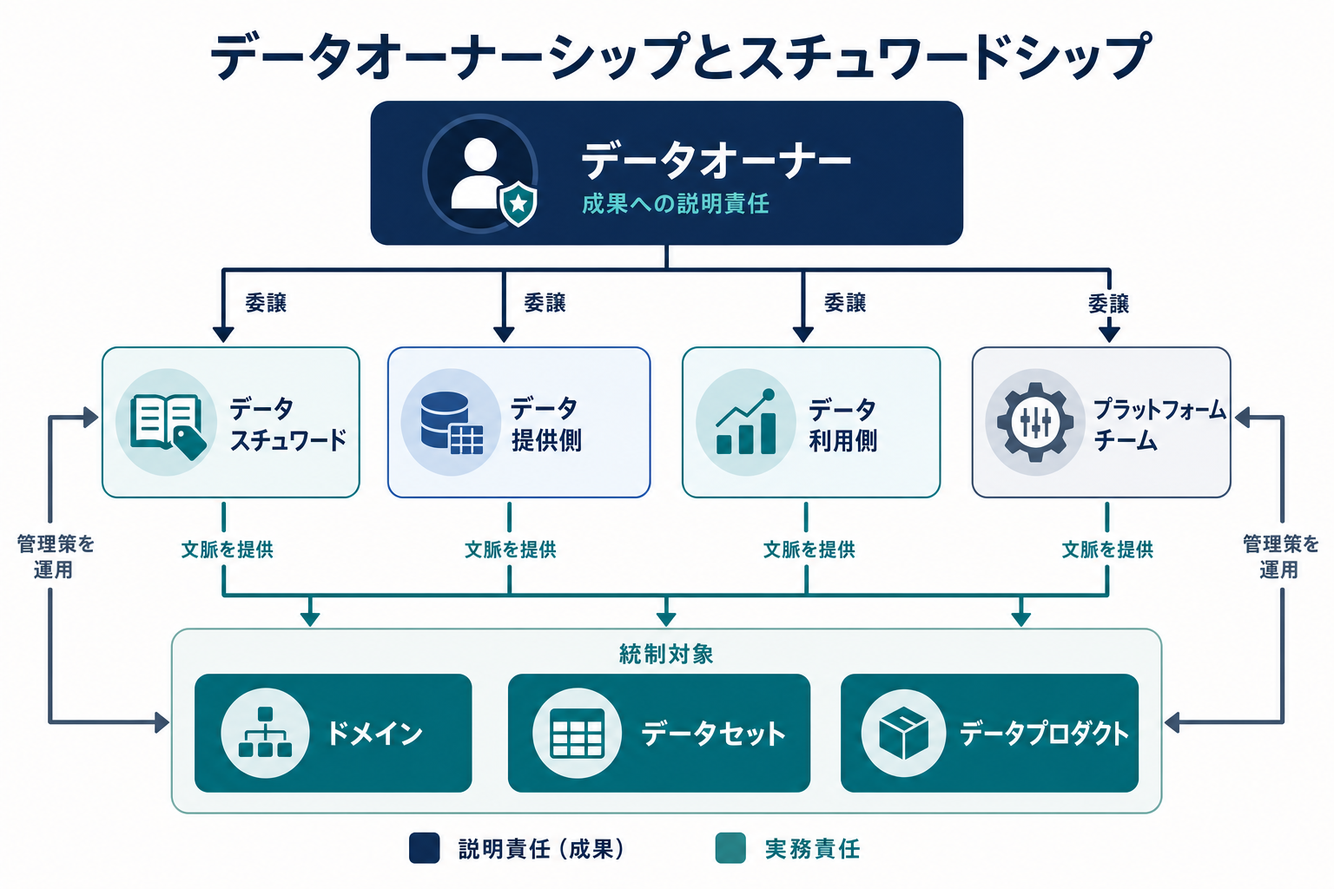
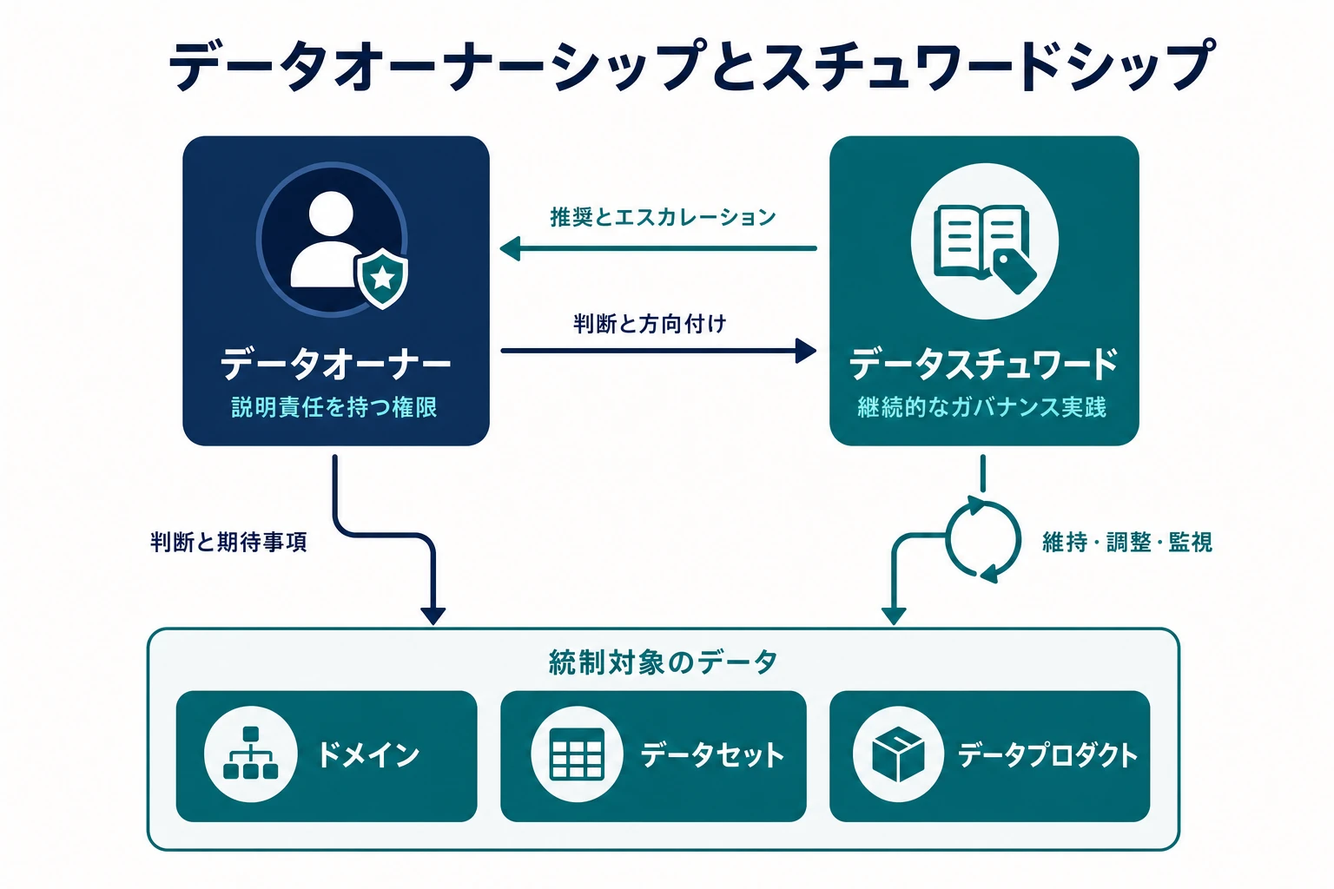
Refine data governance ownership and controls

diff --git a/prompts/docs/data/governance/imagen/03-policies-standards-and-controls.md b/prompts/docs/data/governance/imagen/03-policies-standards-and-controls.md
@@ -1,7 +1,7 @@
 ---
 type: image
 path: /docs/data/governance/policies-standards-and-controls
-description: Connected roles of policies, standards, and controls, with principles, control objectives, and evidence in supporting positions.
+description: Policy, Standard, and Control grouped as one governance mechanism informed by Principle and producing Evidence for assurance and feedback.
 ---
 
 # Image Generation Prompt — Policies, Standards, and Controls
@@ -10,25 +10,25 @@ Create a polished 1536 × 1024 pixels technical infographic titled **Policies, S
 
 ## Purpose
 
-Help readers distinguish the three subjects named by the page title and understand how they connect. Show Policy, Standard, and Control as three equally important but different responsibilities. Place Principle, Control Objective, control modes, and Evidence in supporting positions that clarify the three main subjects rather than competing with them.
+Help readers distinguish the three subjects named by the page title and understand how they connect. Show Policy, Standard, and Control as equally important but different elements inside one clearly bounded governance mechanism. Grouping is more important than a rigid pipeline. Place Principle outside and above the group, and Evidence downstream as support for assurance and feedback.
 
 ## Core Message
 
-Policy defines a mandatory outcome and scope. Standard translates it into a testable common requirement. Control is the operating mechanism that prevents, detects, or corrects deviation. Principle provides direction above this chain; Control Objective and Evidence explain how a control is designed and demonstrated.
+Policy defines a mandatory outcome and scope. Standard translates expectations into testable common requirements. Control is the operating mechanism that prevents, detects, or corrects deviation. Principle provides stable direction to the grouped mechanism as a whole. Evidence demonstrates design and operation and supports feedback. These are traceable relationships, not a universal one-to-one hierarchy.
 
 ## Composition
 
-Use three large, equal-width main columns on one horizontal axis: **Policy**, **Standard**, and **Control**. Connect them with two prominent right-pointing arrows. These three columns must dominate the composition and receive equal visual weight.
+Use one prominent rounded outer container labeled **Governance Mechanism**. Inside it, place three equal-width cards on one horizontal axis: **Policy**, **Standard**, and **Control**. These three cards must receive equal visual weight and read as members of one related group. Use subtle shared alignment or restrained bidirectional connectors; do not make them three unrelated boxes or a mandatory one-way sequence.
 
 ### 1. Principle
 
-Place a slim, quiet banner labeled **Principle** above the three main columns. Use a compass icon and one subtle downward connector centered toward the Policy–Standard–Control chain. The banner represents stable direction for decisions; it is context for the chain, not a fourth peer column.
+Place a slim, quiet banner labeled **Principle** above the outer Governance Mechanism container. Use a compass icon and one centered bracket, broad connector, or downward arrow that clearly terminates at the outer container as a whole. It must not point specifically to Standard, Policy, or Control.
 
 ### 2. Three Main Subjects
 
-In the first equal column, show **Policy** with a shield-document icon. In the second equal column, show **Standard** with a checklist icon. In the third equal column, show **Control** with a gear or switch icon. Do not wrap Policy and Standard in a shared container. Do not separate Control Objective from Control as a peer column.
+In the first card, show **Policy** with a shield-document icon and the phrase **Mandatory outcome & scope**. In the second, show **Standard** with a checklist icon and **Testable common requirement**. In the third, show **Control** with a gear or switch icon. Keep all three inside the same outer container. Do not separate Control Objective from Control as a peer card.
 
-Use shape and iconography to clarify the difference: Policy and Standard are document-like; Control is an operating mechanism. The two arrows express translation from mandatory outcome and scope, to testable common requirement, to operation.
+Use shape and iconography to clarify the difference: Policy and Standard are document-like; Control is an operating mechanism. Any inner connectors should communicate traceability and relationship without implying that every Principle maps to exactly one Policy, Standard, and Control.
 
 ### 3. Control Details and Evidence
 
@@ -40,16 +40,16 @@ Inside the Control column, place a compact inset labeled **Control Objective** w
 
 Control Objective and the three modes are details of Control. Do not give them the same visual rank as Policy, Standard, or Control. Do not connect the three modes to one another.
 
-Place a slim output tray labeled **Evidence** directly below the Control column with one short downward arrow. Evidence is the retained result of control operation, not another level in the Policy–Standard–Control chain.
+Place a slim tray labeled **Evidence & Feedback** below the grouped mechanism. Include compact icons for validation, approval, exception, and audit event. Connect the tray to the group as observable output and feedback, not as another policy level or document.
 
 ## Visual Hierarchy
 
 - Title at the top
-- Policy, Standard, and Control are the three dominant and equally weighted subjects
+- Governance Mechanism visibly groups Policy, Standard, and Control as the three dominant and equally weighted subjects
 - Principle is a quiet directional context above them
 - Control Objective and Prevent, Detect, Correct are subordinate details inside Control
-- Evidence is a subordinate output below Control
-- First reading: Policy → Standard → Control; second reading: supporting context and control details
+- Evidence & Feedback is a subordinate operational output below the group
+- First reading: Principle informs the grouped mechanism; second reading: the three related elements and their evidence
 
 ## Style
 
@@ -74,14 +74,17 @@ Use only these exact labels:
 
 - **Policies, Standards & Controls**
 - **Principle**
+- **Governance Mechanism**
 - **Policy**
+- **Mandatory outcome & scope**
 - **Standard**
+- **Testable common requirement**
 - **Control Objective**
 - **Control**
 - **Prevent**
 - **Detect**
 - **Correct**
-- **Evidence**
+- **Evidence & Feedback**
 
 ## Do
 
@@ -89,7 +92,8 @@ Use only these exact labels:
 - Use document-like cues for Policy and Standard, but not for Control.
 - Use a target for Control Objective and a gear or switch for Control.
 - Show Evidence as a retained record produced by Control operation.
-- Keep Policy → Standard → Control as the only dominant horizontal sequence.
+- Make the shared Governance Mechanism boundary visually unambiguous.
+- Connect Principle to the group as a whole.
 - Render all required text exactly as written.
 
 ## Do Not
@@ -97,8 +101,10 @@ Use only these exact labels:
 - Add Strategy, Review & Change, Obligation, Assurance, decision forums, or organizational scopes.
 - Turn the diagram into the complete governance control loop.
 - Show Prevent, Detect, and Correct as sequential stages.
-- Group Policy and Standard together, or show Control Objective as a peer of Control.
+- Leave Policy, Standard, and Control ungrouped, or show Control Objective as a peer of Control.
 - Make Principle, Control Objective, or Evidence a fourth main column.
+- Point Principle directly to Standard or any one inner card.
+- Present Policy → Standard → Control as a strict maturity sequence or universal one-to-one hierarchy.
 - Use multiple competing paths, crossing connectors, or branching arrows.
 - Add monitoring or remediation lanes.
 - Use dotted lines, decorative particles, ornamental backgrounds, glossy 3D rendering, stock photography, extra text, tiny labels, logos, or watermarks.

diff --git a/content/docs/data/governance/ownership-and-stewardship/_index.ja.md b/content/docs/data/governance/ownership-and-stewardship/_index.ja.md
@@ -6,9 +6,9 @@ prev: "/docs/data/governance/principles-and-operating-model"
 next: "/docs/data/governance/policies-standards-and-controls"
 ---
 
-データオーナーシップ（Data Ownership）は、判断と成果に対する説明責任を割り当てます。テーブルを保存するチームやパイプラインを運用するチームを指すだけではありません。
+データオーナーシップ（Data Ownership）は、判断と成果に対する説明責任を割り当てます。スチュワードシップ（Stewardship）は、日々の実務でガバナンスを継続的に機能させます。どちらも、テーブルを保存するチームやパイプラインを運用するチームを指すだけではありません。
 
-![データの各範囲におけるオーナー、スチュワード、提供側、利用側、プラットフォームの責任の概要](data-ownership-stewardship.ja.webp "データオーナーシップとスチュワードシップ")
+![データオーナーとデータスチュワードが判断とエスカレーションを双方向に受け渡し、ドメイン、データセット、データプロダクトに共に関与する補完関係](data-ownership-stewardship.ja.webp "データオーナーシップとスチュワードシップ")
 
 データに関する判断は、業務上の意味、リスク、技術運用をまたぐため、オーナーシップが必要です。プラットフォーム管理者はアクセスを付与できても、提案された利用目的が許容可能かを判断すべき立場とは限りません。スチュワードは二つの定義の対立を発見できても、どちらを全社標準にするかを決める権限を持たない場合があります。オーナーシップは、こうした判断を正式な権限を持つ人または組織へ結び付けます。
 
@@ -33,6 +33,32 @@ next: "/docs/data/governance/policies-standards-and-controls"
 説明責任と実務責任は区別します。スチュワードにカタログ更新を割り当てても、オーナーの説明責任は移転しません。
 
 この区別は実務担当者も保護します。受容する権限のないリスクについてスチュワードに説明責任を負わせたり、管理策を実装したという理由でプラットフォームチームを暗黙のポリシーオーナーにしたりしてはいけません。判断が役割の権限を超える場合、その役割は判断材料を整理し、説明責任を持つオーナーまたは指定された会議体へ判断を委ねます。
+
+## 運用実践としてのスチュワードシップ
+
+スチュワードシップは共通理解を維持し、実際のデータの文脈にガバナンス要件を適用します。オーナーから依頼されたときだけ行う事務支援ではなく、継続的な実践です。運用モデルに応じて、次の活動を含みます。
+
+- ビジネス定義、意味の一貫性、分類、その他のガバナンスメタデータを維持する
+- 定義の対立、利用方法の不整合、データを適切に利用するために必要な文脈の不足を特定する
+- データ品質とガバナンス上の課題を切り分け、データ提供側と利用側をまたいで解決を調整する
+- 特定のドメイン、データセット、データプロダクトにポリシーと標準をどう適用するか解釈する
+- 課題履歴、判断、例外、文脈を表すメタデータを維持する
+- データオーナーまたはガバナンス会議体のために、推奨案、影響分析、エスカレーション資料を準備する
+- 合意した判断がメタデータと運用へ継続的に反映されているか監視する
+
+これらの活動を担っても、それを支える判断権限が自動的に与えられるわけではありません。スチュワードは二つの定義の対立を特定し、分析を調整して、解決案を提示できます。委譲された権限を超える場合、どちらを共通標準にするかは説明責任を持つオーナーまたは指定されたガバナンス会議体が判断します。その後、スチュワードが決定した定義を維持し、関係先への反映を支援します。
+
+| 観点         | データオーナー             | データスチュワード                               |
+| ------------ | -------------------------- | ------------------------------------------------ |
+| 主な関心     | 判断に対する説明責任       | 継続的なガバナンス実践                           |
+| 典型的な権限 | 承認、判断、リスク受容     | 維持、調整、推奨、エスカレーション               |
+| 時間軸       | 重要な判断と成果           | 継続的                                           |
+| 主な成果物   | 判断、承認、期待事項       | 定義、分類、課題記録、ガバナンスメタデータ       |
+| 判断の委譲   | 権限が必要な事項を受け取る | 委譲された権限を超える事項をエスカレーションする |
+
+この表は責務を説明するものであり、必須の組織図や RACI テンプレートではありません。ビジネスまたはドメインのスチュワードは意味と利用を重視し、技術スチュワードはスキーマ、リネージ、管理策の実装を重視できます。スチュワードシップはデータプロダクトやドメインチームへ分散しても、中央のガバナンス機能が調整してもかまいません。「データスチュワード」という職位名を使う必要はありませんが、この実践を担う責務は割り当てる必要があります。
+
+スチュワードへ実務を委譲しても、オーナーの説明責任は移転しません。逆も重要です。活動するスチュワードシップを伴わない説明責任は、機能するガバナンスではなく、カタログに氏名だけを記録した名目上のオーナーシップになりがちです。
 
 ## 何を所有するか
 

diff --git a/prompts/docs/data/governance/imagen.ja/02-ownership-and-stewardship.ja.md b/prompts/docs/data/governance/imagen.ja/02-ownership-and-stewardship.ja.md
@@ -1,0 +1,69 @@
+---
+type: image
+path: /docs/data/governance/ownership-and-stewardship
+description: 説明責任を持つデータオーナーシップと継続的なスチュワードシップを、統制対象のデータを中心に補完関係として示す日本語図
+---
+
+# 画像生成プロンプト - データオーナーシップとスチュワードシップ
+
+**データオーナーシップとスチュワードシップ** というタイトルの、1536 × 1024 ピクセルの高品質な技術インフォグラフィックを作成してください。
+
+## 英語版との視覚的一致
+
+英語版 `data-ownership-stewardship.webp` を固定レイアウトの参照画像として使用してください。キャンバス、要素の位置と寸法、濃紺で塗りつぶしたデータオーナーカード、ティールで塗りつぶしたデータスチュワードカード、アイコンの形状・大きさ・位置、接続線、矢印、線幅、配色、余白、下部の三つのカードを英語版と一致させ、画像内の文字だけをこのプロンプトで指定した日本語へ置き換えてください。白地の役割カードや異なるアイコン配置へ変更しないでください。
+
+## 目的と中心メッセージ
+
+企業の上下関係ではなく、補完し合う二つのガバナンス機構を示します。
+
+- **データオーナー** — 判断、承認、期待事項、リスク受容に対して説明責任を持つ権限。
+- **データスチュワード** — 維持、調整、推奨、エスカレーションによる継続的なガバナンス実践。
+
+両者は、「ドメイン」「データセット」「データプロダクト」を含む共通の「統制対象のデータ」に直接関与します。スチュワードシップを従属的な事務支援として描かないでください。実務を委譲してもオーナーの説明責任は移転せず、活動するスチュワードシップを欠くオーナーシップは名目上のものになります。
+
+## 要素配置
+
+同じ大きさと視覚的な強さの「データオーナー」と「データスチュワード」のカードを横並びにし、共通の統制対象領域の上または横に配置します。両者に異なるアクセント色を使い、報告線や上下関係を置かないでください。
+
+- データオーナーから統制対象領域へ「判断と期待事項」を示す
+- データスチュワードと統制対象領域の間に「維持・調整・監視」の継続的な実践ループを示す
+- データスチュワードからデータオーナーへ「推奨とエスカレーション」を示す
+- データオーナーからデータスチュワードへ「判断と方向付け」を示す
+
+この双方向の関係で、判断準備、エスカレーション、説明責任を持つ判断、その判断の日常実践への反映を表現します。上意下達の組織図、委譲ツリー、アシスタント関係にしないでください。
+
+共通領域の中には「ドメイン」「データセット」「データプロダクト」を同じ大きさで配置します。権限と判断、スチュワードシップとメタデータ、各データ範囲を表す簡潔なアイコンを使用してください。
+
+## 画像内で使用する文字
+
+次の日本語だけを一字一句そのまま使用してください。
+
+- **データオーナーシップとスチュワードシップ**
+- **データオーナー**
+- **説明責任を持つ権限**
+- **データスチュワード**
+- **継続的なガバナンス実践**
+- **判断と期待事項**
+- **推奨とエスカレーション**
+- **判断と方向付け**
+- **維持・調整・監視**
+- **統制対象のデータ**
+- **ドメイン**
+- **データセット**
+- **データプロダクト**
+
+## 視覚スタイルと出力
+
+- Notes with AI の既存ガバナンス図に合う、クリーンな編集系インフォグラフィック。
+- 温かみのあるオフホワイト背景、濃紺の文字と輪郭、ティールと青のアクセント、エスカレーションには控えめな紫。
+- 明瞭なベクター調の図形、角丸カード、統一されたフラットアイコン、十分な余白、実線の接続、本文幅でも読める日本語。
+- 製品やベンダーに依存しない長期利用可能な表現。
+- 1536 × 1024 ピクセル、3:2 の横長、Hugo のページリソース向け高品質ラスター画像。
+
+## 禁止事項
+
+- データオーナーをデータスチュワードの上に置いたり、一方向の委譲矢印で結んだりしないでください。
+- スチュワードを補佐、事務担当、支援役と表現しないでください。
+- RACI 表、データ提供側、利用側、プラットフォームチーム、委員会、職位、説明文を追加しないでください。
+- スチュワードがリスクを受容する、または委譲権限を超える判断を行うように見せないでください。
+- 単純な直線工程、交差線、点線、写真、3D表現、ロゴ、透かしを使用しないでください。

diff --git a/content/docs/data/governance/ownership-and-stewardship/_index.md b/content/docs/data/governance/ownership-and-stewardship/_index.md
@@ -6,9 +6,9 @@ prev: "/docs/data/governance/principles-and-operating-model"
 next: "/docs/data/governance/policies-standards-and-controls"
 ---
 
-Data ownership assigns accountability for decisions and outcomes. It is not merely the team that stores a table or runs a pipeline.
+Data ownership assigns accountability for decisions and outcomes. Stewardship makes governance work continuously in day-to-day practice. Neither role is merely the team that stores a table or runs a pipeline.
 
-![Overview of accountable ownership, stewardship, producers, consumers, and platform responsibilities across data scopes](data-ownership-stewardship.webp "Data Ownership and Stewardship")
+![Data Owner and Data Steward shown as complementary roles that exchange decisions and escalation while both act on a shared domain, dataset, and data-product context](data-ownership-stewardship.webp "Data Ownership and Stewardship")
 
 Ownership is needed because data decisions often span business meaning, risk, and technical operation. A platform administrator may be able to grant access, but should not have to decide whether a proposed use is acceptable. A steward may recognize that two definitions conflict, but may not have authority to choose which definition becomes an enterprise standard. Ownership connects those decisions to a person or body with an explicit mandate.
 
@@ -33,6 +33,32 @@ The roles below describe governance responsibilities, not necessarily job titles
 Accountability and operational responsibility must remain distinct: assigning a steward to update a catalog does not transfer the owner's accountability.
 
 The distinction also protects the people performing the work. A steward should not be treated as accountable for a risk they cannot accept, and a platform team should not silently become the policy owner because it implemented the control. When a decision exceeds a role's mandate, that role prepares the context and routes the decision to the accountable owner or designated forum.
+
+## Stewardship as an Operating Practice
+
+Stewardship sustains shared understanding and applies governance requirements in the context of actual data. It is an ongoing practice, not administrative support performed only when an owner requests it. Depending on the operating model, it may include:
+
+- maintaining business definitions, semantic consistency, classifications, and other governance metadata;
+- identifying conflicting definitions, inconsistent usage, and gaps in the context needed to use data responsibly;
+- triaging data-quality and governance issues and coordinating resolution across producers and consumers;
+- interpreting policies and standards for a particular domain, dataset, or data product;
+- maintaining issue history, decisions, exceptions, and contextual metadata;
+- preparing recommendations, impact analysis, and escalation material for Data Owners or governance forums; and
+- monitoring whether agreed decisions remain reflected in metadata and operations.
+
+These activities do not automatically grant authority over the decisions they support. A steward can identify two conflicting definitions, coordinate analysis, and recommend a resolution. The accountable owner or designated governance body decides which definition becomes the shared standard when that choice exceeds delegated authority. The steward then maintains and helps propagate the resulting definition.
+
+| Dimension         | Data Owner                           | Data Steward                                                     |
+| ----------------- | ------------------------------------ | ---------------------------------------------------------------- |
+| Primary concern   | Decision accountability              | Ongoing governance practice                                      |
+| Typical authority | Approve, decide, or accept risk      | Maintain, coordinate, recommend, or escalate                     |
+| Time horizon      | Key decisions and outcomes           | Continuous                                                       |
+| Typical artifacts | Decisions, approvals, expectations   | Definitions, classifications, issue records, governance metadata |
+| Escalation        | Receives matters requiring authority | Escalates matters beyond delegated authority                     |
+
+The table describes responsibilities rather than a mandatory organization chart or RACI template. Business or domain stewards may focus on meaning and use; technical stewards may focus on schemas, lineage, and control implementation. Stewardship may be distributed among data-product or domain teams or coordinated by a central governance function. Organizations do not need to use the title “Data Steward,” but they do need to assign the practice.
+
+Delegating operational work to stewards does not transfer the owner's accountability. The inverse matters as well: accountability without active stewardship tends to become nominal ownership recorded in a catalog rather than functioning governance.
 
 ## What Is Owned?
 

diff --git a/prompts/docs/data/governance/imagen/02-ownership-and-stewardship.md b/prompts/docs/data/governance/imagen/02-ownership-and-stewardship.md
@@ -1,0 +1,65 @@
+---
+type: image
+path: /docs/data/governance/ownership-and-stewardship
+description: Complementary roles of accountable data ownership and continuous stewardship around governed data scopes.
+---
+
+# Image Generation Prompt — Data Ownership and Stewardship
+
+Create a polished 1536 × 1024 pixels technical infographic titled **Data Ownership & Stewardship**.
+
+## Purpose and Core Message
+
+Show two complementary governance mechanisms rather than a corporate hierarchy:
+
+- **Data Owner** — accountable authority for decisions, approvals, expectations, and risk acceptance.
+- **Data Steward** — continuous governance practice through maintenance, coordination, recommendations, and escalation.
+
+Both roles interact directly with a shared **Governed Data Context** containing **Domain**, **Dataset**, and **Data Product**. Stewardship is not subordinate administrative support. Assigning operational work to the steward does not transfer owner accountability; ownership without active stewardship becomes nominal.
+
+## Composition
+
+Use two equal, side-by-side role cards above or beside one shared governed-data area. Give Data Owner and Data Steward equal visual weight, distinct accent colors, and no reporting line between them.
+
+- From Data Owner to the governed-data area, show **Decisions & Expectations**.
+- Around Data Steward and the governed-data area, show a continuous-practice loop labeled **Maintain · Coordinate · Monitor**.
+- From Data Steward toward Data Owner, show **Recommend & Escalate**.
+- From Data Owner toward Data Steward, show **Decide & Set Direction**.
+
+The two-way exchange should communicate decision preparation, escalation, accountable decisions, and their propagation into ongoing practice. Avoid a top-down org chart, delegation tree, or assistant relationship.
+
+Inside the shared data area, show three equal compact elements: **Domain**, **Dataset**, and **Data Product**. Use restrained icons for authority/decision, stewardship/metadata, domain, dataset, and data product.
+
+## Required Text
+
+Use only these exact labels:
+
+- **Data Ownership & Stewardship**
+- **Data Owner**
+- **Accountable authority**
+- **Data Steward**
+- **Continuous governance practice**
+- **Decisions & Expectations**
+- **Recommend & Escalate**
+- **Decide & Set Direction**
+- **Maintain · Coordinate · Monitor**
+- **Governed Data Context**
+- **Domain**
+- **Dataset**
+- **Data Product**
+
+## Style and Output
+
+- Clean editorial infographic matching the Notes with AI governance illustrations.
+- Warm off-white background, dark navy typography and outlines, teal and blue accents, restrained violet for escalation.
+- Crisp vector-style geometry, rounded cards, consistent flat icons, balanced whitespace, solid connectors, and legible typography.
+- Vendor-neutral, timeless, no product branding.
+- 1536 × 1024 pixels, 3:2 landscape, high-quality raster for a Hugo page resource.
+
+## Do Not
+
+- Do not place Data Owner above Data Steward or connect them with a one-way delegation arrow.
+- Do not label the steward as an assistant, administrator, or support role.
+- Do not use a RACI matrix or add producers, consumers, platform teams, committees, job titles, or extra prose.
+- Do not imply that the steward accepts risk or makes decisions beyond delegated authority.
+- Do not use a simple linear pipeline, crossed connectors, dotted lines, photos, 3D rendering, logos, or watermarks.

diff --git a/content/docs/data/governance/policies-standards-and-controls/_index.ja.md b/content/docs/data/governance/policies-standards-and-controls/_index.ja.md
@@ -6,9 +6,9 @@ prev: "/docs/data/governance/ownership-and-stewardship"
 next: "/docs/data/governance/data-classification"
 ---
 
-ガバナンスは、ポリシー、標準、管理策を接続し、意図を観測可能な振る舞いへ結び付けます。
+ガバナンスは、相互に関係するポリシー、標準、管理策の仕組みによって、意図を観測可能な振る舞いへ結び付けます。
 
-![ポリシー、標準、管理策を三つの接続された責務として示し、原則を方向性、統制目標と証跡を管理策の設計・運用を支える要素として配置した概要](policies-standards-controls.ja.webp "ポリシー、標準、管理策")
+![原則がポリシー、標準、管理策をまとめたガバナンス機構全体へ方向性を与え、証跡とフィードバックが保証を支える関係](policies-standards-controls.ja.webp "ポリシー、標準、管理策")
 
 この接続は、実装できない抽象的な方針と、目的が不明な技術管理策という二つの問題を防ぎます。それぞれの要素は、目的との追跡可能性を保ちながら、対象読者に適した内容である必要があります。経営層とポリシーオーナーが必須成果を示し、ドメインと技術の専門家が共通要件へ変換し、デリバリー・プラットフォームチームが管理策を運用します。
 
@@ -22,7 +22,7 @@ next: "/docs/data/governance/data-classification"
 | **管理策（Control）**  | 逸脱を予防、検知、是正する機構 | 必須メタデータがなければ公開を停止する           |
 | **証跡（Evidence）**   | 設計と作動を実証する記録       | 検証結果、承認、例外、監査イベント               |
 
-これらの要素は追跡可能なつながりを形成しますが、すべてが同じ種類の階層ではありません。原則は詳細なルールがない場合の判断を導きます。ポリシーは定義された範囲で成果を必須にします。標準は検証可能な共通要件を示し、不要なばらつきを減らします。管理策はその要件に対して動作する行為または機構であり、別の文書ではありません。証跡はレビューと保証を支えるために保持される結果です。
+これらの要素は追跡可能な関係を形成しますが、すべてが同じ種類の階層ではなく、必ず一対一に対応するものでもありません。原則はガバナンスの仕組み全体へ方向性を与え、詳細なルールがない場合の判断を導きます。ポリシーは定義された範囲で成果を必須にします。標準は検証可能な共通要件を示し、不要なばらつきを減らします。管理策はその要件に対して動作する行為または機構であり、別の文書ではありません。証跡はレビュー、フィードバック、保証を支えるために保持される結果です。
 
 **統制目標（Control Objective）** は、一つの実装方法を指定せず、管理策が達成すべき結果を示します。予防的管理策は許容できない操作を止め、発見的管理策は逸脱を明らかにし、是正的管理策は許容状態へ戻します。いずれも手動または自動で実行できます。
 

diff --git a/content/docs/data/governance/policies-standards-and-controls/_index.md b/content/docs/data/governance/policies-standards-and-controls/_index.md
@@ -6,9 +6,9 @@ prev: "/docs/data/governance/ownership-and-stewardship"
 next: "/docs/data/governance/data-classification"
 ---
 
-Governance connects intent to observable behavior by linking policies, standards, and controls.
+Governance connects intent to observable behavior through a related mechanism of policies, standards, and controls.
 
-![Policies, standards, and controls shown as three connected responsibilities, with principles providing direction and control objectives and evidence supporting control design and operation](policies-standards-controls.webp "Policies, Standards, and Controls")
+![Principle informing a grouped governance mechanism of Policy, Standard, and Control, with Evidence and Feedback supporting assurance](policies-standards-controls.webp "Policies, Standards, and Controls")
 
 This connection prevents two common problems: high-level statements that cannot be implemented, and technical controls that have no clear policy purpose. Each element should be traceable to the intent it serves while remaining appropriate to its own audience. Executives and policy owners state required outcomes; domain and technical specialists translate those outcomes into common requirements; delivery and platform teams operate the controls.
 
@@ -22,7 +22,7 @@ This connection prevents two common problems: high-level statements that cannot 
 | **Control**   | Mechanism that prevents, detects, or corrects deviation | Block publication when required metadata is absent               |
 | **Evidence**  | Record that demonstrates design and operation           | Validation result, approval, exception, or audit event           |
 
-These elements form a traceable chain, but they are not all layers of the same kind. A principle guides judgment when no detailed rule exists. A policy makes an outcome mandatory for a defined scope. A standard reduces unnecessary variation by describing a testable common requirement. A control is an action or mechanism that operates against that requirement, not another document. Evidence is the retained result that supports review and assurance.
+These elements form traceable relationships, but they are not all layers of the same kind or a mandatory one-to-one hierarchy. A principle guides the governance mechanism as a whole and supports judgment when no detailed rule exists. A policy makes an outcome mandatory for a defined scope. A standard reduces unnecessary variation by describing a testable common requirement. A control is an action or mechanism that operates against that requirement, not another document. Evidence is the retained result that supports review, feedback, and assurance.
 
 A **control objective** states the result a control must achieve without prescribing one implementation. Preventive controls stop an unacceptable action; detective controls reveal it; corrective controls restore an acceptable state. Each can be manual or automated.
 

diff --git a/content/docs/data/governance/_index.ja.md b/content/docs/data/governance/_index.ja.md
@@ -49,7 +49,7 @@ next: "/docs/data/governance/principles-and-operating-model"
 
 {{< cards >}}
 {{< card link="principles-and-operating-model/" title="原則と運用モデル" icon="adjustments" subtitle="説明責任、権限、会議体、エスカレーション、ポリシーライフサイクル" >}}
-{{< card link="ownership-and-stewardship/" title="オーナーシップとスチュワードシップ" icon="users" subtitle="ドメイン、資産、データプロダクトの意思決定権" >}}
+{{< card link="ownership-and-stewardship/" title="オーナーシップとスチュワードシップ" icon="users" subtitle="判断への説明責任と継続的なガバナンス実践" >}}
 {{< card link="policies-standards-and-controls/" title="ポリシー、標準、管理策" icon="shield-check" subtitle="原則から実行可能な管理策と証跡へ" >}}
 {{< card link="data-classification/" title="データ分類" icon="tag" subtitle="異なる義務を駆動する複数の分類軸" >}}
 {{< card link="compliance-and-auditability/" title="コンプライアンス、管理策、監査可能性" icon="clipboard-check" subtitle="トレーサビリティ、保証、モニタリング、実証可能な統制" >}}

diff --git a/content/docs/data/governance/_index.md b/content/docs/data/governance/_index.md
@@ -51,7 +51,7 @@ These capabilities meet at interfaces rather than forming isolated silos. Govern
 
 {{< cards >}}
 {{< card link="principles-and-operating-model/" title="Principles and Operating Model" icon="adjustments" subtitle="Accountability, authority, forums, escalation, and the policy lifecycle" >}}
-{{< card link="ownership-and-stewardship/" title="Ownership and Stewardship" icon="users" subtitle="Decision rights for domains, assets, and data products" >}}
+{{< card link="ownership-and-stewardship/" title="Ownership and Stewardship" icon="users" subtitle="Decision accountability and continuous governance practice" >}}
 {{< card link="policies-standards-and-controls/" title="Policies, Standards, and Controls" icon="shield-check" subtitle="From principles to enforceable controls and evidence" >}}
 {{< card link="data-classification/" title="Data Classification" icon="tag" subtitle="Multiple dimensions that drive differentiated obligations" >}}
 {{< card link="compliance-and-auditability/" title="Compliance, Controls, and Auditability" icon="clipboard-check" subtitle="Traceability, assurance, monitoring, and demonstrable control" >}}
